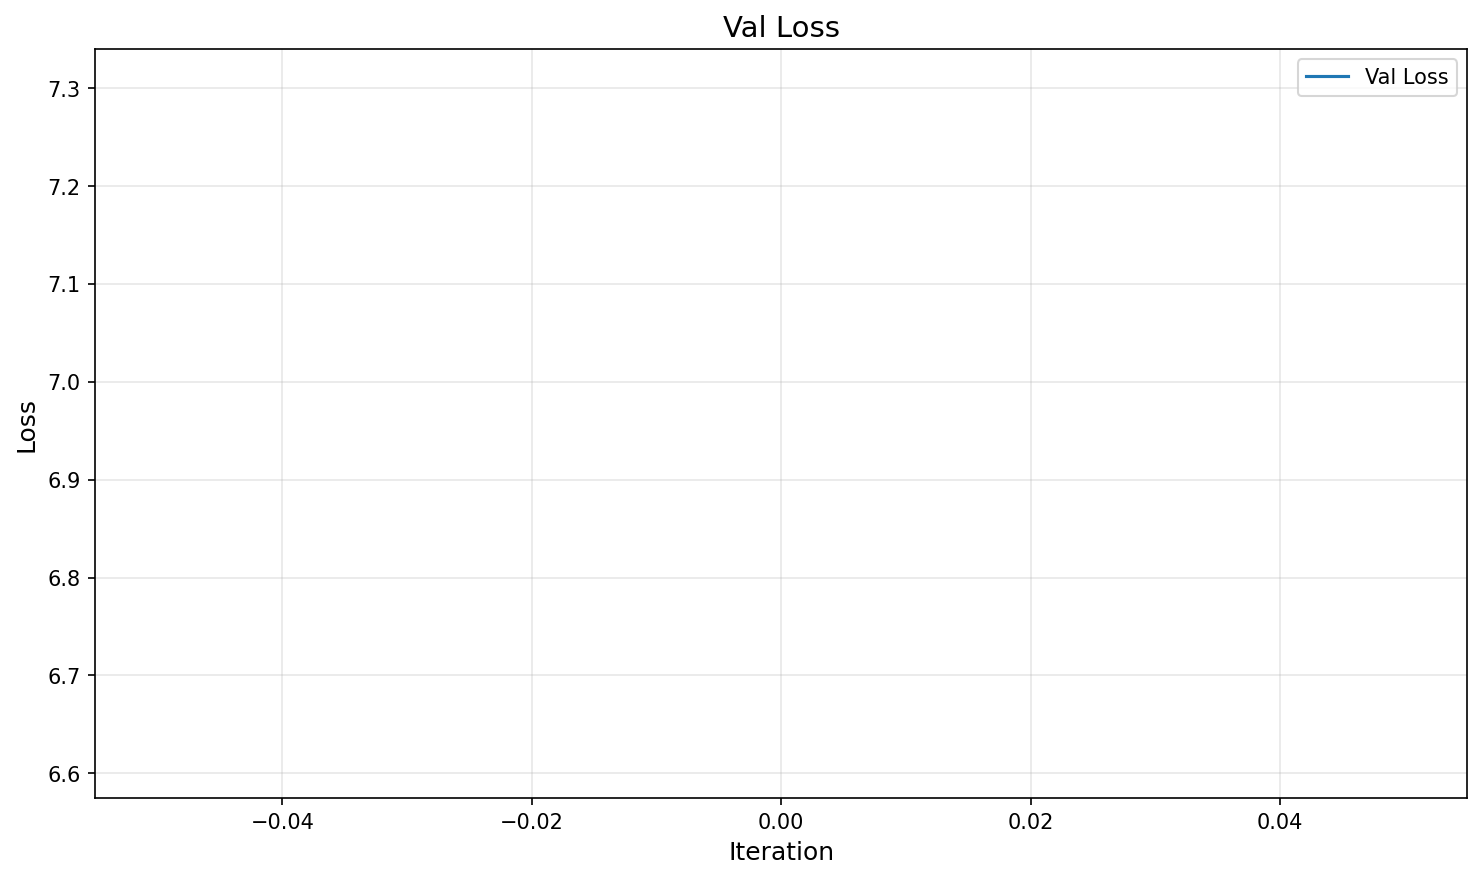
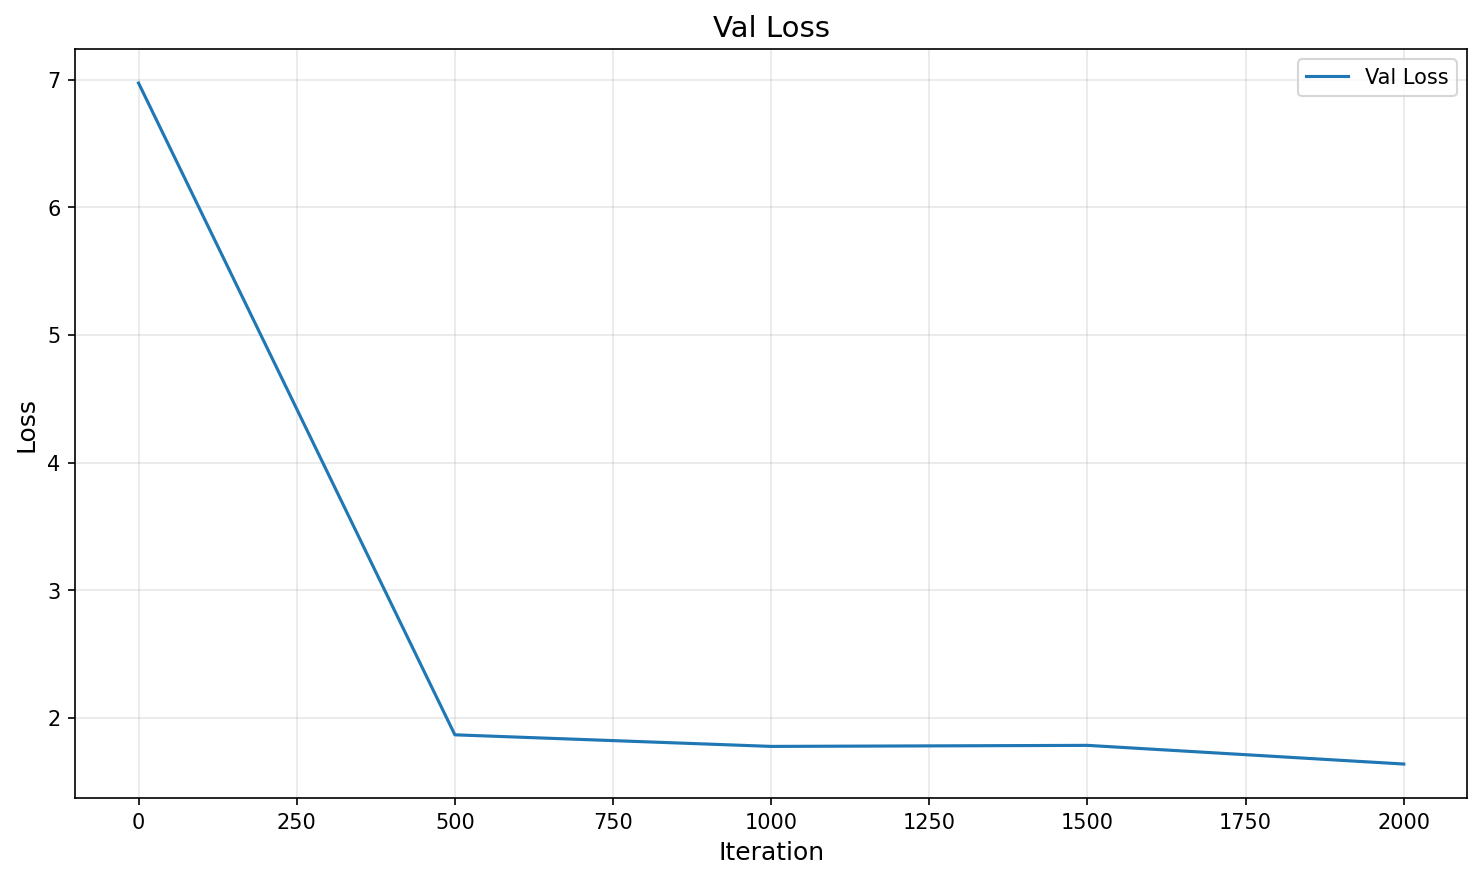
train qwen

diff --git a/train_qwen.py b/train_qwen.py
@@ -21,7 +21,9 @@ import pickle
 from torch.nn.parallel import DistributedDataParallel as DDP
 from torch.distributed import init_process_group, destroy_process_group
 from transformers import AutoTokenizer
+# from torch.cuda.amp import GradScaler
 from models.transformers.qwen2_model import Qwen2Config, Qwen2Model
+# from models.helpers.muon import Muon
 from models.helpers.muon import Muon
 import matplotlib.pyplot as plt
 import matplotlib
@@ -29,9 +31,9 @@ matplotlib.use('Agg')
 
 # --------------------------------------------------------------------------------------
 # User defined constants
-num_iterations = 100 # 5000 # 600 # 1000 # 4000 # 8000
-# eval_every = 500 
-eval_every = 10 
+num_iterations = 2000 # 5000 # 600 # 1000 # 4000 # 8000
+eval_every = 500 
+# eval_every = 10 
 log_interval = 1
 vocab_size: int = 1024
 hidden_size: int = 256 # 256 # 64
@@ -69,13 +71,17 @@ output_dirname = "out"
 # all global variable present in this script
 config_keys = [k for k, v in globals().items() if not k.startswith("_") and isinstance(v, (int, float, bool, str))]
 # print(f"config_keys: {config_keys}")
-exec(open("models/helpers/configurator.py").read()) # overrides from command line or config file
+BASE_DIR = os.path.dirname(os.path.abspath(__file__))
+CONFIG_PATH = os.path.join(BASE_DIR, "models", "helpers", "configurator.py")
+print(f"config path: {CONFIG_PATH}")
+exec(open(CONFIG_PATH).read()) # overrides from command line or config file
 user_config = {k: globals()[k] for k in config_keys} # useful for logging
 # --------------------------------------------------------------------------------------
 # I/O setup
 # torchrun --nproc_per_node=1 train.py
 backend = "nccl" # "gloo"
 ddp = int(os.environ.get("RANK", -1)) != -1 # is thi ddp run?
+print(f"ddp run: {ddp}")
 if ddp:
     init_process_group(backend=backend)
     ddp_rank = int(os.environ["RANK"])
@@ -128,6 +134,8 @@ def get_batch(split: str):
     # np memmap is more space efficient than normal file loading
     # it only loads the file in RAM when needed
     if split == "train":
+        # print(f" path for traind data: {os.path.join(data_dir, 'train.bin')}")
+        # print(f"files exists: {os.path.exists(data_dir+ '/train.bin')}")
         data = np.memmap(os.path.join(data_dir, 'train.bin'), dtype=np.uint32, mode='r')
     else:
         data = np.memmap(os.path.join(data_dir, 'val.bin'), dtype=np.uint32, mode='r')
@@ -139,6 +147,7 @@ def get_batch(split: str):
         x, y = x.pin_memory().to(device, non_blocking=True), y.pin_memory().to(device, non_blocking=True)
     else:
         x, y = x.to(device), y.to(device)
+    # print(f"train data size: {x.size(), y.size()}")
     return x, y
 
 meta_path = os.path.join(data_dir, "meta.pkl")
@@ -280,6 +289,9 @@ X, Y = get_batch('train')
 raw_model = model.module if ddp else model # unwrap DDP container if needed
 local_step = 0
 running_mfu = -1.0
+# scaler = GradScaler()
+
+# training run
 for step in range(num_iterations + 1):
     last_step = step == num_iterations
 
@@ -287,6 +299,7 @@ for step in range(num_iterations + 1):
     if last_step or (step % eval_every == 0 and master_process):
         losses = estimate_loss()
         print(f"step {step}/{num_iterations}: train loss: {losses['train']:.4f}, val loss {losses['val']:.4f}")
+        # print(f"evaluating training loss...")
         val_losses.append(losses["val"].item())
         iterations.append(step)
         if wandb_log:
@@ -320,17 +333,27 @@ for step in range(num_iterations + 1):
     t0 = time.time()
     # single batch combined with several mini batches
     for micro_step in range(grad_accum_steps):
+        # print(f"inside combined microstep loss ddp: {ddp}")
         if ddp:
             model.require_backward_grad_sync = (micro_step == grad_accum_steps - 1)
         with autocast_ctx:
+            # print(f"inside autocast")
             logits, loss = model(X, Y)
+            # print(f"loss calculated: {loss}")
             loss = loss / grad_accum_steps
+            # print(f"loss calculated: {loss}")
+        # print(f"outside autocast")
         loss.backward()
+        # scaler.scale(loss).backward()
+        # print(f"get the train batch")
         X, Y = get_batch("train")
+        # print(f"I have the train batch")
     
     if grad_clip > 0.0:
+        # print(f"inside gradient clipping")
         torch.nn.utils.clip_grad_norm_(raw_model.parameters(), grad_clip)
 
+    # print(f"before optimizers")
     # step the optimizers
     lrm = get_lr_multiplier(step)
     for opt in optimizers:
@@ -342,6 +365,8 @@ for step in range(num_iterations + 1):
     for opt in optimizers:
         opt.step()
     model.zero_grad(set_to_none=True)
+    # print(f"after optimizers")
+
     # -----------------------------------------------------------------------------------
     # timing and logging
     t1 = time.time()
